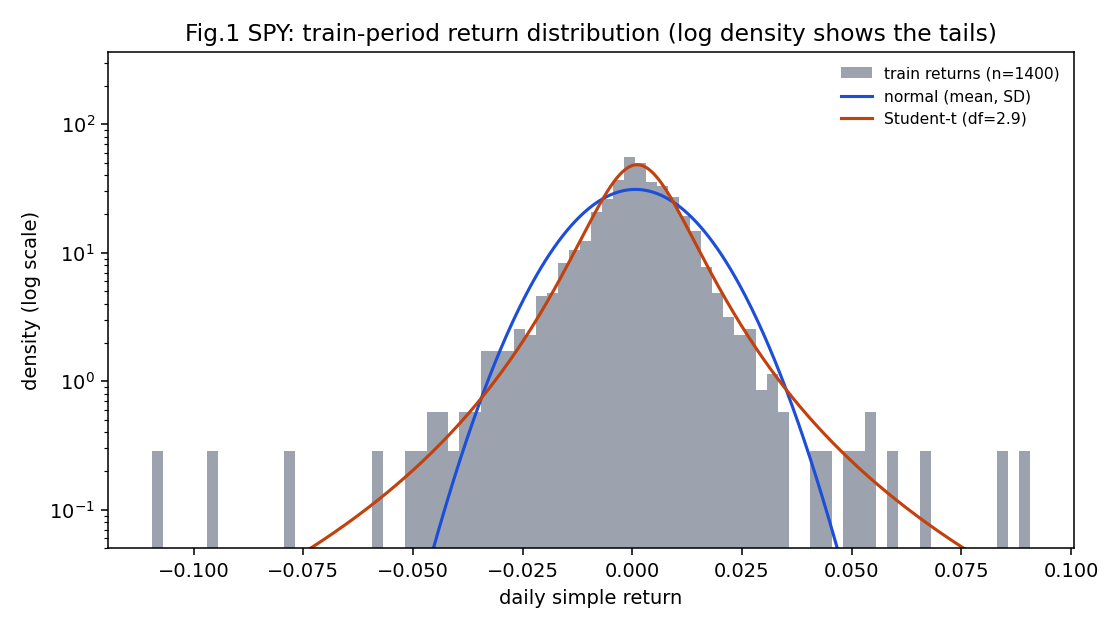
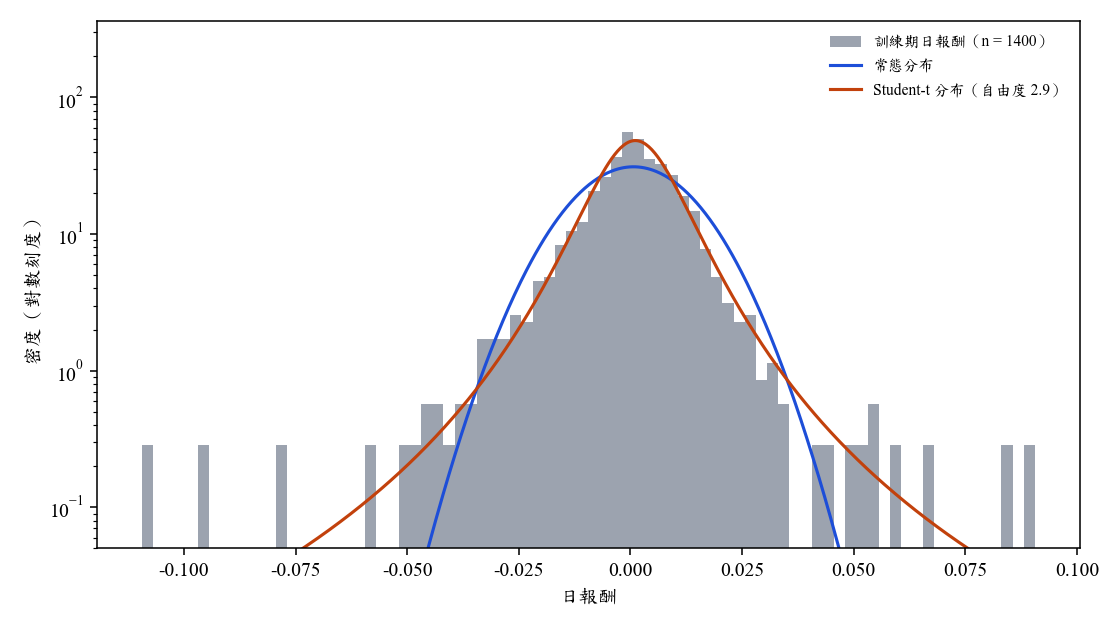
Add tail variance share; Chinese figure labels without dark bars

diff --git a/python/run_all.py b/python/run_all.py
@@ -15,6 +15,9 @@ from pathlib import Path
 import matplotlib
 matplotlib.use("Agg")
 import matplotlib.pyplot as plt
+# Chinese labels: Times New Roman for Latin text, DFKai-SB (標楷體, Windows) for CJK glyphs
+plt.rcParams["font.family"] = ["Times New Roman", "DFKai-SB"]
+plt.rcParams["axes.unicode_minus"] = False
 import numpy as np
 import pandas as pd
 from scipy import stats
@@ -65,14 +68,13 @@ def figures(name: str, ticker: str, train, test, tfit, exc, cross) -> list[str]:
 
     # 1 histogram vs normal and t (train)
     fig, ax = plt.subplots(figsize=(8, 4.5))
-    ax.hist(train, bins=80, density=True, color="#9ca3af", label=f"train returns (n={train.size})")
+    ax.hist(train, bins=80, density=True, color="#9ca3af", label=f"訓練期日報酬（n = {train.size}）")
     xs = np.linspace(train.min(), train.max(), 600)
-    ax.plot(xs, stats.norm.pdf(xs, mu, sd), color="#1d4ed8", lw=1.6, label="normal (mean, SD)")
+    ax.plot(xs, stats.norm.pdf(xs, mu, sd), color="#1d4ed8", lw=1.6, label="常態分布")
     ax.plot(xs, stats.t.pdf(xs, tfit["df"], tfit["loc"], tfit["scale"]), color="#c2410c", lw=1.6,
-            label=f"Student-t (df={tfit['df']:.1f})")
+            label=f"Student-t 分布（自由度 {tfit['df']:.1f}）")
     ax.set_yscale("log"); ax.set_ylim(bottom=0.05)
-    ax.set_xlabel("daily simple return"); ax.set_ylabel("density (log scale)")
-    ax.set_title(f"Fig.1 {ticker}: train-period return distribution (log density shows the tails)")
+    ax.set_xlabel("日報酬"); ax.set_ylabel("密度（對數刻度）")
     ax.legend(frameon=False, fontsize=8)
     p = FIG / f"fig1_hist_{name}.png"; fig.tight_layout(); fig.savefig(p, dpi=140); plt.close(fig); out.append(p)
 
@@ -83,35 +85,32 @@ def figures(name: str, ticker: str, train, test, tfit, exc, cross) -> list[str]:
     ax.scatter(q, z, s=4, color="#374151")
     lim = max(abs(z).max(), abs(q).max())
     ax.plot([-lim, lim], [-lim, lim], color="#1d4ed8", lw=1)
-    ax.set_xlabel("normal quantile"); ax.set_ylabel("standardised return (z)")
-    ax.set_title(f"Fig.2 {ticker}: normal QQ plot (train)")
+    ax.set_xlabel("常態分位數"); ax.set_ylabel("標準化報酬（z）")
     p = FIG / f"fig2_qq_{name}.png"; fig.tight_layout(); fig.savefig(p, dpi=140); plt.close(fig); out.append(p)
 
     # 3 out-of-sample exceedance: predicted vs observed with 95% CI
     fig, ax = plt.subplots(figsize=(8, 4.5))
     ks = [r["k"] for r in exc]; x = np.arange(len(ks)); w = 0.2
-    for j, (key, lab, col) in enumerate([("p_normal", "normal (workbook)", "#1d4ed8"),
-                                         ("p_t", "Student-t", "#c2410c"),
-                                         ("p_hist_train", "historical (train)", "#6b7280")]):
+    for j, (key, lab, col) in enumerate([("p_normal", "常態預測（活頁簿解讀）", "#9ca3af"),
+                                         ("p_t", "Student-t 預測", "#ea8a2e"),
+                                         ("p_hist_train", "歷史頻率預測", "#86c98a")]):
         ax.bar(x + (j - 1.5) * w, [r[key] for r in exc], w, label=lab, color=col)
     obs = np.array([r["p_observed"] for r in exc])
     err = np.array([[r["p_observed"] - r["ci95_low"] for r in exc], [r["ci95_high"] - r["p_observed"] for r in exc]])
-    ax.bar(x + 1.5 * w, obs, w, color="#111827", label="observed in test", yerr=err, capsize=3)
-    ax.set_yscale("log"); ax.set_xticks(x, [f"|r-mu| > {k} SD" for k in ks])
-    ax.set_ylabel("probability per day (log scale)")
-    ax.set_title(f"Fig.3 {ticker}: predicted vs observed extreme-day frequency (test n={exc[0]['test_n']})")
+    ax.bar(x + 1.5 * w, obs, w, color="#2563eb", label="測試期實際（95% 信賴區間）", yerr=err, capsize=3)
+    ax.set_yscale("log"); ax.set_xticks(x, [f"超出 {k} SD" for k in ks])
+    ax.set_ylabel("每日發生機率（對數刻度）")
     ax.legend(frameon=False, fontsize=8)
     p = FIG / f"fig3_exceed_{name}.png"; fig.tight_layout(); fig.savefig(p, dpi=140); plt.close(fig); out.append(p)
 
     # 4 cross-check figure
     if cross is not None and len(cross) and "r_idx" in cross:
         fig, ax = plt.subplots(figsize=(8, 3.4))
-        ax.plot(cross["date"], cross["diff"] * 100, color="#9ca3af", lw=0.7, label="SPY return - S&P 500 return")
+        ax.plot(cross["date"], cross["diff"] * 100, color="#9ca3af", lw=0.7, label="SPY 報酬 − S&P 500 指數報酬")
         ex = cross[cross["ex_div"]]
-        ax.scatter(ex["date"], ex["diff"] * 100, s=14, color="#c2410c", zorder=3, label="ex-dividend day")
+        ax.scatter(ex["date"], ex["diff"] * 100, s=14, color="#c2410c", zorder=3, label="除息日")
         ax.axhline(0, color="#111827", lw=0.6)
-        ax.set_ylabel("difference (percentage points)")
-        ax.set_title(f"Fig.4 {ticker} (Yahoo) vs S&P 500 index (FRED): daily return difference, {len(cross)} days")
+        ax.set_ylabel("差距（百分點）")
         ax.legend(frameon=False, fontsize=8)
         p = FIG / f"fig4_crosscheck_{name}.png"; fig.tight_layout(); fig.savefig(p, dpi=140); plt.close(fig); out.append(p)
     elif cross is not None and len(cross):
@@ -127,16 +126,15 @@ def fig_rolling(name, ticker, exc, roll) -> str:
     """Fig.5: same observed-vs-normal question, fixed train SD vs rolling SD."""
     fig, ax = plt.subplots(figsize=(8, 4.5))
     ks = [r["k"] for r in roll]; x = np.arange(len(ks)); w = 0.2
-    ax.bar(x - 1.5 * w, [r["p_normal"] for r in roll], w, color="#1d4ed8", label="normal prediction")
-    ax.bar(x - 0.5 * w, [r["p_t_unitvar"] for r in roll], w, color="#c2410c", label="Student-t prediction")
-    for j, (rows, lab, col) in enumerate([(exc, "observed, fixed train SD", "#9ca3af"),
-                                          (roll, f"observed, rolling {roll[0]['window']}-day SD", "#111827")]):
+    ax.bar(x - 1.5 * w, [r["p_normal"] for r in roll], w, color="#9ca3af", label="常態預測")
+    ax.bar(x - 0.5 * w, [r["p_t_unitvar"] for r in roll], w, color="#ea8a2e", label="Student-t 預測")
+    for j, (rows, lab, col) in enumerate([(exc, "實際（固定訓練期 SD）", "#93c5fd"),
+                                          (roll, f"實際（滾動 {roll[0]['window']} 日 SD）", "#2563eb")]):
         o = np.array([r["p_observed"] for r in rows])
         e = np.array([[r["p_observed"] - r["ci95_low"] for r in rows], [r["ci95_high"] - r["p_observed"] for r in rows]])
         ax.bar(x + (0.5 + j) * w, o, w, color=col, yerr=e, capsize=3, label=lab)
-    ax.set_yscale("log"); ax.set_xticks(x, [f"|z| > {k}" for k in ks])
-    ax.set_ylabel("probability per day (log scale)")
-    ax.set_title(f"Fig.5 {ticker}: does re-estimating SD on recent data fix the underestimate?")
+    ax.set_yscale("log"); ax.set_xticks(x, [f"超出 {k} SD" for k in ks])
+    ax.set_ylabel("每日發生機率（對數刻度）")
     ax.legend(frameon=False, fontsize=8)
     p = FIG / f"fig5_rolling_{name}.png"; fig.tight_layout(); fig.savefig(p, dpi=140); plt.close(fig)
     return p.relative_to(ROOT).as_posix()
@@ -146,17 +144,16 @@ def fig_windows(name, ticker, wins) -> str:
     """Fig.6: share of days beyond k SD in the latest 200/500/2000 days vs normal."""
     fig, ax = plt.subplots(figsize=(8, 4.5))
     ks = [e["k"] for e in wins[0]["exceedance"]]; x = np.arange(len(ks)); w = 0.8 / (len(wins) + 1)
-    ax.bar(x - 0.4 + w / 2, [e["p_normal"] for e in wins[0]["exceedance"]], w, color="#1d4ed8", label="normal")
-    shades = ["#d1d5db", "#6b7280", "#111827"]
+    ax.bar(x - 0.4 + w / 2, [e["p_normal"] for e in wins[0]["exceedance"]], w, color="#9ca3af", label="常態預期")
+    shades = ["#bfdbfe", "#60a5fa", "#2563eb"]
     for j, wv in enumerate(wins):
         ex = wv["exceedance"]
         o = np.array([e["p_observed"] for e in ex])
         err = np.array([[e["p_observed"] - e["ci95_low"] for e in ex], [e["ci95_high"] - e["p_observed"] for e in ex]])
         ax.bar(x - 0.4 + w * (j + 1.5), np.maximum(o, 1e-4), w, color=shades[j % 3], yerr=err, capsize=3,
-               label=f"latest {wv['n']} days")
-    ax.set_yscale("log"); ax.set_xticks(x, [f"|r-mu| > {k} SD" for k in ks])
-    ax.set_ylabel("share of days (log scale)")
-    ax.set_title(f"Fig.6 {ticker}: share of days beyond k SD, by window (in-sample, own mean/SD)")
+               label=f"最近 {wv['n']} 日")
+    ax.set_yscale("log"); ax.set_xticks(x, [f"超出 {k} SD" for k in ks])
+    ax.set_ylabel("天數比例（對數刻度）")
     ax.legend(frameon=False, fontsize=8)
     p = FIG / f"fig6_windows_{name}.png"; fig.tight_layout(); fig.savefig(p, dpi=140); plt.close(fig)
     return p.relative_to(ROOT).as_posix()

diff --git a/python/analyze.py b/python/analyze.py
@@ -163,11 +163,19 @@ def window_stats(r: np.ndarray, ks) -> dict:
         hits = int(np.sum(np.abs(r - mu) > k * sd))
         p0 = 2 * stats.norm.sf(k)
         lo, hi = wilson(hits, n)
+        dev2 = (r - mu) ** 2
+        ext = np.abs(r - mu) > k * sd
         rows.append({"k": k, "hits": hits, "expected_normal": float(n * p0), "p_observed": hits / n,
                      "p_normal": float(p0), "ci95_low": lo, "ci95_high": hi,
-                     "binom_p_vs_normal": float(stats.binomtest(hits, n, p0).pvalue)})
+                     "binom_p_vs_normal": float(stats.binomtest(hits, n, p0).pvalue),
+                     # share of the window's total variance (sum of squared deviations) that
+                     # comes from days beyond k SD, and the same share if returns were normal:
+                     # E[z^2; |z|>k] = 2 (k phi(k) + 1 - Phi(k))
+                     "var_share": float(dev2[ext].sum() / dev2.sum()),
+                     "var_share_normal": float(2 * (k * stats.norm.pdf(k) + stats.norm.sf(k))),
+                     "cum_return_excl": float(np.expm1(np.log1p(r[~ext]).sum()))})
     return {"n": int(n), "moments": moments(r), "shapiro": shapiro(r), "ljung_box_sq": ljung_box_sq(r),
-            "exceedance": rows}
+            "cum_return": float(np.expm1(np.log1p(r).sum())), "exceedance": rows}
 
 
 def oos_loglik(train: np.ndarray, test: np.ndarray, tfit: dict) -> dict:

diff --git a/python/tests/test_core.py b/python/tests/test_core.py
@@ -74,6 +74,24 @@ class TestIntervals(unittest.TestCase):
         self.assertGreater(tfit["df"], 30)  # near-normal data -> large df
 
 
+class TestTailVarianceShare(unittest.TestCase):
+    def test_normal_data_gives_theoretical_share(self):
+        # For normal data the share of variance beyond 3 SD is 2(3*phi(3) + 1 - Phi(3)) ~ 2.93%
+        rng = np.random.default_rng(11)
+        w = A.window_stats(rng.normal(0, 0.01, 400_000), [3])
+        row = w["exceedance"][0]
+        self.assertAlmostEqual(row["var_share_normal"], 0.0293, places=4)
+        self.assertLess(abs(row["var_share"] - row["var_share_normal"]), 0.003)
+
+    def test_hand_example(self):
+        # one big outlier among small moves: its share of squared deviations is computed by hand
+        x = np.array([0.0] * 99 + [1.0])
+        row = A.window_stats(x, [3])["exceedance"][0]
+        d2 = (x - x.mean()) ** 2
+        self.assertEqual(row["hits"], 1)
+        self.assertAlmostEqual(row["var_share"], d2[-1] / d2.sum(), places=12)
+
+
 class TestLjungBox(unittest.TestCase):
     def test_iid_not_rejected_and_garch_like_rejected(self):
         rng = np.random.default_rng(7)
